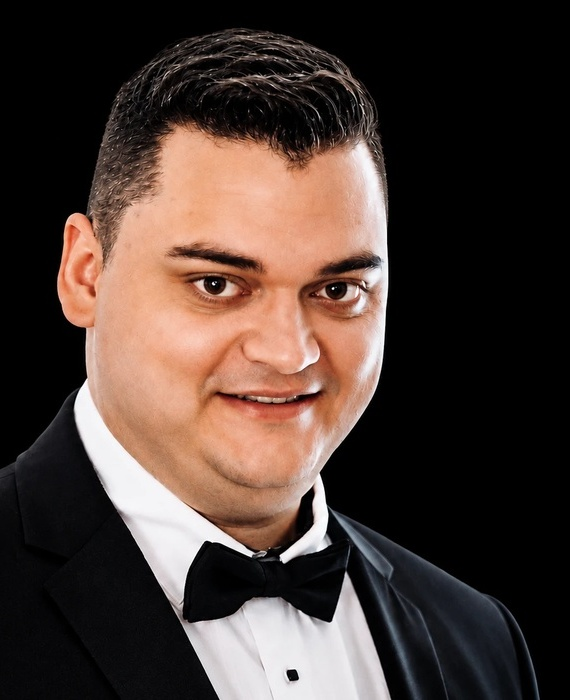
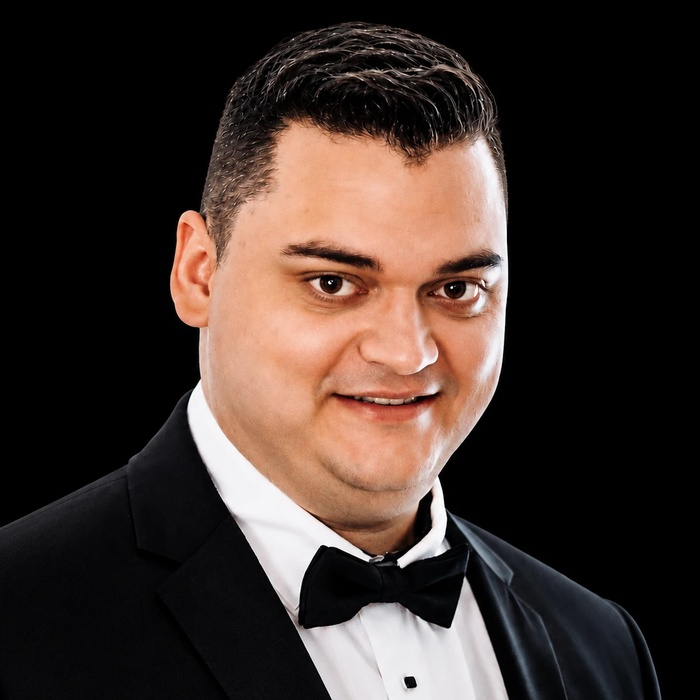
Fix Brandon's photo over-zoom with a better-framed source
Root cause: the previous left-trim produced a non-square (570x700)
file that fought object-fit:cover on the square card, compounding
the zoom. Replaced with a user-supplied near-square, well-framed
source instead, matching Jessica's card framing.

diff --git a/index.html b/index.html
@@ -848,7 +848,7 @@
       <!-- Brandon Le Roux -->
       <div class="founder-card">
         <div class="founder-visual founder-visual--photo">
-          <img class="founder-photo" src="/images/brandon-le-roux.jpg?v=3" alt="Brandon Le Roux" />
+          <img class="founder-photo" src="/images/brandon-le-roux.jpg?v=4" alt="Brandon Le Roux" />
         </div>
         <div class="founder-content">
           <p class="section-eyebrow">Leadership</p>

diff --git a/MEMORY.md b/MEMORY.md
@@ -6,6 +6,30 @@ time you finish a unit of work here.
 
 ---
 
+## 2026-08-04 (Brandon's photo: over-zoom fixed, then replaced with a better-framed source) — root cause was a non-square crop fighting object-fit: cover
+
+User reported Brandon's photo was "too zoomed in" after the left-trim
+in an earlier entry. Root cause: that trim produced a 570x700
+*portrait* file, but `.founder-photo`'s CSS renders into a *square*
+(`aspect-ratio: 1`) container via `object-fit: cover` — cover scales
+to fill the container's width first, so a source narrower than it is
+tall gets scaled up (and cropped vertically) more than a square source
+would, compounding on top of the crop's own tightness. First fix
+attempt re-cropped to a proper square (570x570 from the same source,
+upscaled to 700x700) to remove that compounding effect — better, but
+side-by-side against Jessica's card it was still visibly tighter
+(barely any headroom, bow tie knot right at the frame edge), so not
+pushed.
+
+User then supplied a different, better-framed source photo directly
+(1099x1122, near-square, generous headroom, full bow tie visible) with
+"use this as is." Center-cropped to an exact 1099x1099 square (trimming
+23px off the bottom only, to correct the slight non-square aspect
+without touching the well-framed top/sides) and resized to 700x700 —
+no additional tightening this time. Verified side-by-side against
+Jessica's card via screenshot: comparable headroom and framing now.
+Cache-busting bumped to `?v=4`.
+
 ## 2026-08-04 (Jessica's photo swapped for a business-appropriate portrait) — same "do it too" as Brandon's, resolves the earlier wedding-dress tone concern
 
 User followed up with a new Jessica photo (dark green top, not the

diff --git a/TODO.md b/TODO.md
@@ -3,6 +3,15 @@
 Living backlog. Check items off (or move to MEMORY.md as a dated entry) as they're
 done — don't just accumulate; keep this reflecting real, current state.
 
+## Fixed 2026-08-04 (Brandon's photo over-zoom fixed)
+
+- [x] Root cause was a non-square (570x700) source fighting
+      `object-fit: cover` on a square container, compounding the
+      crop's own tightness. Replaced with a user-supplied
+      near-square, well-framed source (1099x1122 → 1099x1099 →
+      700x700), verified comparable framing to Jessica's card.
+      Cache-busting bumped to `?v=4`. See MEMORY.md.
+
 ## Fixed 2026-08-04 (Jessica's photo swapped for a business portrait)
 
 - [x] Replaced `jessica-le-roux.jpg` with a new business-appropriate
